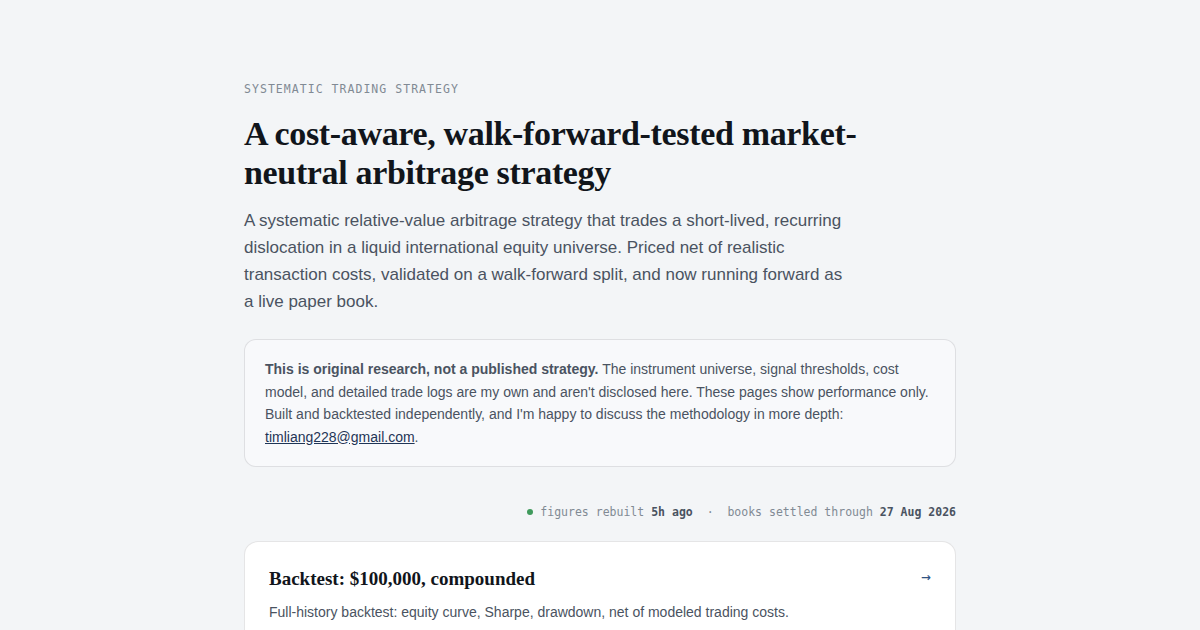
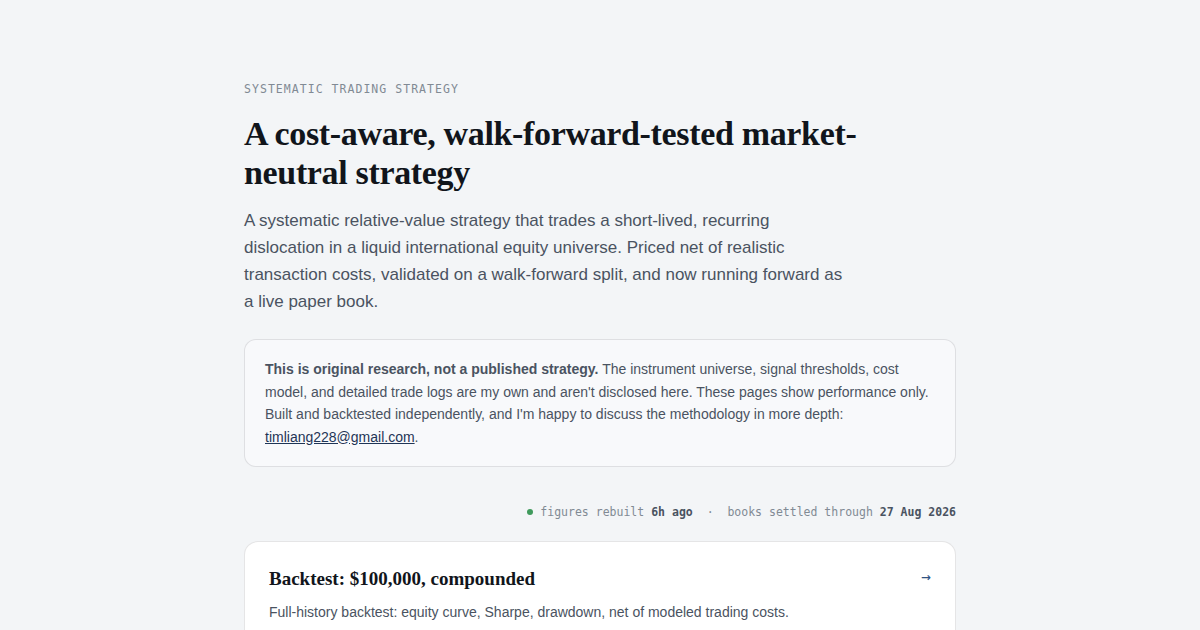
Stuff

Changed region(s): [[0.2775, 0.2413, 0.5242, 0.3016], [0.37, 0.3317, 0.7092, 0.3619]]

diff --git a/backtest.html b/backtest.html
@@ -71,7 +71,7 @@ footer{margin-top:60px;padding-top:20px;border-top:1px solid var(--hair);font-si
 <section class="lede">
   <div class="kicker">Systematic strategy &middot; backtest</div>
   <h1>Backtest</h1>
-  <p class="dek">A systematic market-neutral arbitrage strategy that trades a short-lived, recurring
+  <p class="dek">A systematic market-neutral strategy that trades a short-lived, recurring
   dislocation in a liquid international equity universe. Backtested over its full available
   history, net of modeled trading costs and two risk overlays described below.</p>
 </section>
@@ -99,7 +99,7 @@ footer{margin-top:60px;padding-top:20px;border-top:1px solid var(--hair);font-si
 <section>
   <h2>Beta and correlation</h2>
   <div class="card">
-    <svg viewBox="0 0 720 240" class="chart" role="img" aria-label="Beta against six benchmarks, all indistinguishable from zero on a scale running to 1.0"><line x1="265.7" y1="24" x2="265.7" y2="216" stroke="var(--grid)" stroke-width="1"/><text x="265.7" y="232" text-anchor="middle" style="font-size:10px;fill:var(--muted)">0</text><line x1="352.8" y1="24" x2="352.8" y2="216" stroke="var(--grid)" stroke-width="1"/><text x="352.8" y="232" text-anchor="middle" style="font-size:10px;fill:var(--muted)">0.25</text><line x1="439.9" y1="24" x2="439.9" y2="216" stroke="var(--grid)" stroke-width="1"/><text x="439.9" y="232" text-anchor="middle" style="font-size:10px;fill:var(--muted)">0.5</text><line x1="527.0" y1="24" x2="527.0" y2="216" stroke="var(--grid)" stroke-width="1"/><text x="527.0" y="232" text-anchor="middle" style="font-size:10px;fill:var(--muted)">0.75</text><line x1="614.1" y1="24" x2="614.1" y2="216" stroke="var(--grid)" stroke-width="1"/><text x="614.1" y="232" text-anchor="middle" style="font-size:10px;fill:var(--muted)">1</text><line x1="265.7" y1="24" x2="265.7" y2="216" stroke="var(--hair-strong)" stroke-width="1.5"/><line x1="614.1" y1="24" x2="614.1" y2="216" stroke="var(--crit)" stroke-width="1.5" stroke-dasharray="4 3" opacity="0.75"/><text x="614.1" y="16" text-anchor="middle" style="font-size:10.5px;fill:var(--crit-ink)">1.0 = full market exposure</text><text x="265.7" y="16" text-anchor="middle" style="font-size:10.5px;fill:var(--ink-2)">0 = neutral</text><text x="182" y="53.0" text-anchor="end" style="font-size:12px;fill:var(--ink)">US broad market</text><line x1="227.8" y1="49.0" x2="271.7" y2="49.0" stroke="var(--accent)" stroke-width="2.5" opacity="0.5" stroke-linecap="round"/><circle cx="249.7" cy="49.0" r="3.6" fill="var(--accent)"/><text x="654" y="53.0" style="font-size:11.5px;fill:var(--muted);font-family:var(--mono)">-0.046</text><text x="182" y="83.0" text-anchor="end" style="font-size:12px;fill:var(--ink)">US large-cap technology</text><line x1="239.6" y1="79.0" x2="275.0" y2="79.0" stroke="var(--accent)" stroke-width="2.5" opacity="0.5" stroke-linecap="round"/><circle cx="257.3" cy="79.0" r="3.6" fill="var(--accent)"/><text x="654" y="83.0" style="font-size:11.5px;fill:var(--muted);font-family:var(--mono)">-0.024</text><text x="182" y="113.0" text-anchor="end" style="font-size:12px;fill:var(--ink)">Home market, broad</text><line x1="243.6" y1="109.0" x2="286.3" y2="109.0" stroke="var(--accent)" stroke-width="2.5" opacity="0.5" stroke-linecap="round"/><circle cx="265.0" cy="109.0" r="3.6" fill="var(--accent)"/><text x="654" y="113.0" style="font-size:11.5px;fill:var(--muted);font-family:var(--mono)">-0.002</text><text x="182" y="143.0" text-anchor="end" style="font-size:12px;fill:var(--ink)">Home market, large-cap</text><line x1="245.2" y1="139.0" x2="284.4" y2="139.0" stroke="var(--accent)" stroke-width="2.5" opacity="0.5" stroke-linecap="round"/><circle cx="264.8" cy="139.0" r="3.6" fill="var(--accent)"/><text x="654" y="143.0" style="font-size:11.5px;fill:var(--muted);font-family:var(--mono)">-0.003</text><text x="182" y="173.0" text-anchor="end" style="font-size:12px;fill:var(--ink)">Home market, technology</text><line x1="254.1" y1="169.0" x2="283.0" y2="169.0" stroke="var(--accent)" stroke-width="2.5" opacity="0.5" stroke-linecap="round"/><circle cx="268.6" cy="169.0" r="3.6" fill="var(--accent)"/><text x="654" y="173.0" style="font-size:11.5px;fill:var(--muted);font-family:var(--mono)">+0.008</text><text x="182" y="203.0" text-anchor="end" style="font-size:12px;fill:var(--ink)">Sector, US-listed</text><line x1="253.3" y1="199.0" x2="278.2" y2="199.0" stroke="var(--accent)" stroke-width="2.5" opacity="0.5" stroke-linecap="round"/><circle cx="265.7" cy="199.0" r="3.6" fill="var(--accent)"/><text x="654" y="203.0" style="font-size:11.5px;fill:var(--muted);font-family:var(--mono)">+0.000</text></svg>
+    <svg viewBox="0 0 720 240" class="chart" role="img" aria-label="Beta against six benchmarks, all indistinguishable from zero on a scale running to 1.0"><line x1="265.7" y1="24" x2="265.7" y2="216" stroke="var(--grid)" stroke-width="1"/><text x="265.7" y="232" text-anchor="middle" style="font-size:10px;fill:var(--muted)">0</text><line x1="352.8" y1="24" x2="352.8" y2="216" stroke="var(--grid)" stroke-width="1"/><text x="352.8" y="232" text-anchor="middle" style="font-size:10px;fill:var(--muted)">0.25</text><line x1="439.9" y1="24" x2="439.9" y2="216" stroke="var(--grid)" stroke-width="1"/><text x="439.9" y="232" text-anchor="middle" style="font-size:10px;fill:var(--muted)">0.5</text><line x1="527.0" y1="24" x2="527.0" y2="216" stroke="var(--grid)" stroke-width="1"/><text x="527.0" y="232" text-anchor="middle" style="font-size:10px;fill:var(--muted)">0.75</text><line x1="614.1" y1="24" x2="614.1" y2="216" stroke="var(--grid)" stroke-width="1"/><text x="614.1" y="232" text-anchor="middle" style="font-size:10px;fill:var(--muted)">1</text><line x1="265.7" y1="24" x2="265.7" y2="216" stroke="var(--hair-strong)" stroke-width="1.5"/><line x1="614.1" y1="24" x2="614.1" y2="216" stroke="var(--crit)" stroke-width="1.5" stroke-dasharray="4 3" opacity="0.75"/><text x="614.1" y="16" text-anchor="middle" style="font-size:10.5px;fill:var(--crit-ink)">1.0 = full market exposure</text><text x="265.7" y="16" text-anchor="middle" style="font-size:10.5px;fill:var(--ink-2)">0 = neutral</text><text x="182" y="53.0" text-anchor="end" style="font-size:12px;fill:var(--ink)">US broad market</text><line x1="227.8" y1="49.0" x2="271.7" y2="49.0" stroke="var(--accent)" stroke-width="2.5" opacity="0.5" stroke-linecap="round"/><circle cx="249.7" cy="49.0" r="3.6" fill="var(--accent)"/><text x="654" y="53.0" style="font-size:11.5px;fill:var(--muted);font-family:var(--mono)">-0.046</text><text x="182" y="83.0" text-anchor="end" style="font-size:12px;fill:var(--ink)">US large-cap technology</text><line x1="239.6" y1="79.0" x2="275.0" y2="79.0" stroke="var(--accent)" stroke-width="2.5" opacity="0.5" stroke-linecap="round"/><circle cx="257.3" cy="79.0" r="3.6" fill="var(--accent)"/><text x="654" y="83.0" style="font-size:11.5px;fill:var(--muted);font-family:var(--mono)">-0.024</text><text x="182" y="113.0" text-anchor="end" style="font-size:12px;fill:var(--ink)">Other market, broad</text><line x1="243.6" y1="109.0" x2="286.3" y2="109.0" stroke="var(--accent)" stroke-width="2.5" opacity="0.5" stroke-linecap="round"/><circle cx="265.0" cy="109.0" r="3.6" fill="var(--accent)"/><text x="654" y="113.0" style="font-size:11.5px;fill:var(--muted);font-family:var(--mono)">-0.002</text><text x="182" y="143.0" text-anchor="end" style="font-size:12px;fill:var(--ink)">Other market, large-cap</text><line x1="245.2" y1="139.0" x2="284.4" y2="139.0" stroke="var(--accent)" stroke-width="2.5" opacity="0.5" stroke-linecap="round"/><circle cx="264.8" cy="139.0" r="3.6" fill="var(--accent)"/><text x="654" y="143.0" style="font-size:11.5px;fill:var(--muted);font-family:var(--mono)">-0.003</text><text x="182" y="173.0" text-anchor="end" style="font-size:12px;fill:var(--ink)">Other market, technology</text><line x1="254.1" y1="169.0" x2="283.0" y2="169.0" stroke="var(--accent)" stroke-width="2.5" opacity="0.5" stroke-linecap="round"/><circle cx="268.6" cy="169.0" r="3.6" fill="var(--accent)"/><text x="654" y="173.0" style="font-size:11.5px;fill:var(--muted);font-family:var(--mono)">+0.008</text><text x="182" y="203.0" text-anchor="end" style="font-size:12px;fill:var(--ink)">Sector, US-listed</text><line x1="253.3" y1="199.0" x2="278.2" y2="199.0" stroke="var(--accent)" stroke-width="2.5" opacity="0.5" stroke-linecap="round"/><circle cx="265.7" cy="199.0" r="3.6" fill="var(--accent)"/><text x="654" y="203.0" style="font-size:11.5px;fill:var(--muted);font-family:var(--mono)">+0.000</text></svg>
     <div class="cap">Beta against six benchmarks spanning both trading sessions, with 95%
     confidence intervals, shown against the exposure a fully invested book would carry. Largest
     beta 0.046, largest correlation 0.036, and no benchmark explains more than

diff --git a/index.html b/index.html
@@ -4,17 +4,17 @@
 <meta charset="utf-8">
 <meta name="viewport" content="width=device-width, initial-scale=1">
 <title>Systematic Trading Strategy</title>
-<meta name="description" content="A cost-aware, walk-forward-tested market-neutral arbitrage strategy trading a short-lived, recurring dislocation in a liquid international equity universe. Live paper trading dashboard.">
+<meta name="description" content="A cost-aware, walk-forward-tested market-neutral strategy trading a short-lived, recurring dislocation in a liquid international equity universe. Live paper trading dashboard.">
 <meta property="og:type" content="website">
 <meta property="og:url" content="https://timhideandseekchampion.github.io/m-arb-dashboard/">
-<meta property="og:title" content="Systematic Trading Strategy — Market-Neutral Arbitrage">
-<meta property="og:description" content="A cost-aware, walk-forward-tested market-neutral arbitrage strategy trading a short-lived, recurring dislocation in a liquid international equity universe. Live paper trading dashboard.">
+<meta property="og:title" content="Systematic Trading Strategy — Market-Neutral">
+<meta property="og:description" content="A cost-aware, walk-forward-tested market-neutral strategy trading a short-lived, recurring dislocation in a liquid international equity universe. Live paper trading dashboard.">
 <meta property="og:image" content="https://timhideandseekchampion.github.io/m-arb-dashboard/og-image.png">
 <meta property="og:image:width" content="1200">
 <meta property="og:image:height" content="630">
 <meta name="twitter:card" content="summary_large_image">
-<meta name="twitter:title" content="Systematic Trading Strategy — Market-Neutral Arbitrage">
-<meta name="twitter:description" content="A cost-aware, walk-forward-tested market-neutral arbitrage strategy trading a short-lived, recurring dislocation in a liquid international equity universe. Live paper trading dashboard.">
+<meta name="twitter:title" content="Systematic Trading Strategy — Market-Neutral">
+<meta name="twitter:description" content="A cost-aware, walk-forward-tested market-neutral strategy trading a short-lived, recurring dislocation in a liquid international equity universe. Live paper trading dashboard.">
 <meta name="twitter:image" content="https://timhideandseekchampion.github.io/m-arb-dashboard/og-image.png">
 <style>
 :root{
@@ -91,8 +91,8 @@ footer{margin-top:60px;font-size:12.5px;color:var(--muted)}
 <body>
 <div class="wrap">
   <div class="kicker">Systematic Trading Strategy</div>
-  <h1>A cost-aware, walk-forward-tested market-neutral arbitrage strategy</h1>
-  <p class="dek">A systematic relative-value arbitrage strategy that trades a short-lived, recurring
+  <h1>A cost-aware, walk-forward-tested market-neutral strategy</h1>
+  <p class="dek">A systematic relative-value strategy that trades a short-lived, recurring
   dislocation in a liquid international equity universe. Priced net of realistic transaction
   costs, validated on a walk-forward split, and now running forward as a
   live paper book.</p>

diff --git a/paper-trading.html b/paper-trading.html
@@ -333,8 +333,6 @@ footer{margin-top:60px;padding-top:20px;border-top:1px solid var(--hair);font-si
       el.querySelector('.v').textContent = t.hour+':'+t.minute+':'+t.second;
       el.className = on ? 'lz on' : 'lz';
     });
-    var h = g.HKG, n = g.NYC;
-
     var msg, live = open > 0;
     if (MODE !== 'private'){
       /* Public: report only that markets are trading. Naming which session forms the signal
@@ -353,40 +351,6 @@ footer{margin-top:60px;padding-top:20px;border-top:1px solid var(--hair);font-si
         (ev0 ? ' &nbsp;·&nbsp; ' + ev0.label + ' ' + ev0.what + ' in ' + clock(ev0.secs) : '');
       return;
     }
-    /* The book's own cycle: the home session forms the signal, New York trades it, then it
-       settles. The markets are named generically here on purpose. The clock strip above is a
-       world clock and gives nothing away, but this line describes the mechanism while it is
-       running, which is the one thing the public page does not disclose. */
-    live = false;
-    if (isOpen('HKG', h)){
-      live = true;
-      var toClose = (h.mins < 720 ? 720 : 960) - h.mins;
-      msg = '<b>The home session is open.</b> It is still forming the signal this book ' +
-            'trades. ' + hm(toClose) + ' until the ' +
-            (h.mins < 720 ? 'lunch break' : 'close') + '.';
-    } else if (isOpen('NYC', n)){
-      live = true;
-      msg = '<b>New York is open.</b> Positions opened against the prior close are ' +
-            'working now. ' + hm(960 - n.mins) + ' until the bell.';
-    } else if (h.wd === 0 || h.wd === 6){
-      msg = '<b>Weekend.</b> Both markets are shut; the book is flat until Monday.';
-    } else if (h.mins < 570){
-      msg = '<b>Both markets shut.</b> The home session opens in ' + hm(570 - h.mins) +
-            ', which is where the next signal comes from.';
-    } else {
-      msg = '<b>Both markets shut.</b> The home session has closed and New York has not ' +
-            'opened; the next settlement comes after the New York bell.';
-    }
-    document.getElementById('statusline').className = 'statusline' + (live ? ' live' : '');
-    document.getElementById('statusBody').innerHTML = msg;
-
-    var built = new Date(BUILT);
-    var ev = nextEvent(now);
-    document.getElementById('statusMeta').innerHTML =
-      'positions and P&amp;L last settled ' + SETTLED +
-      ' &nbsp;·&nbsp; figures generated ' + ago(now - built) +
-      (ev ? ' &nbsp;·&nbsp; ' + ev.label + ' ' + ev.what + ' in ' + clock(ev.secs) : '') +
-      ' &nbsp;·&nbsp; the money figures move only when a session settles, not on this clock';
   }
   paint(); setInterval(paint, 1000);
 })();
